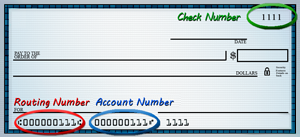
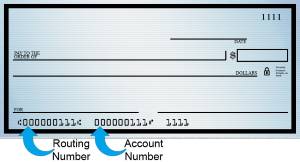
new cvv2 image

diff --git a/web/order/view/assets/charge.js b/web/order/view/assets/charge.js
@@ -149,12 +149,17 @@ document.addEventListener("DOMContentLoaded", function(event) {
 
     var amount_timeout = null;
     function updateChargeForm(e, form) {
+        var url;
         if(form.change_form_url && form.change_form_url.value) {
-            document.location.href = document.location.href.split('?')[0] + form.change_form_url.value;
+            url = form.change_form_url.value;
+            form.change_form_url.value = null;
+            document.location.href = document.location.href.split('?')[0] + url;
             return false;
         }
         if(form.change_merchant_url && form.change_merchant_url.value) {
-            document.location.href = document.location.href.split('?')[0] + form.change_merchant_url.value;
+            url = form.change_merchant_url.value;
+            form.change_merchant_url.value = null;
+            document.location.href = document.location.href.split('?')[0] + url;
             return false;
         }
 

diff --git a/web/view/theme/spg/assets/spg-theme.css b/web/view/theme/spg/assets/spg-theme.css
@@ -768,17 +768,28 @@ body.layout-vertical.spg-theme nav.page-menu {
     height: 44px;
 }
 
+.spg-theme .credit-image.small {
+    background: url('img/payment/credit-image-small.png') no-repeat;
+    width: 192px;
+    height: 32px;
+}
+
 .spg-theme .check-image {
     background: url('img/payment/check-image.png') no-repeat;
     width: 300px;
-    height: 137px;
+    height: 162px;
 }
 
 .spg-theme .cvv2-image {
     background: url('img/payment/cvv2-image.png') no-repeat;
-    width: 108px;
-    height: 76px;
+    width: 225px;
+    height: 170px;
     display: inline-block;
+}
+
+.spg-theme .cvv2-image.small {
+    transform: scale(0.8);
+    margin: 12px -26px;
 }
 
 

diff --git a/web/view/theme/spg/assets/spg-theme.js b/web/view/theme/spg/assets/spg-theme.js
@@ -54,9 +54,10 @@ document.addEventListener("DOMContentLoaded", function(e) {
         case 'localhost':
             break;
 
-        case 'access.simonpayments.com:81':
         case 'access.simonpayments.com':
-            // Force SSL
+        case 'dev.simonpayments.com':
+        case 'demo.simonpayments.com':
+            // If no SSL, force SSL
             if (location.protocol != 'https:')
                 location.href = 'https:' + window.location.href.substring(window.location.protocol.length);
             break;

diff --git a/web/order/forms/defaultorderform.class.php b/web/order/forms/defaultorderform.class.php
@@ -211,19 +211,23 @@ HEAD;
                                 </td>
                             </tr>
                             <tr>
-                                <td colspan="2">
+                                <td colspan="2" style="white-space: normal;">
+
+
+                                    <div class="credit-image small" style="margin: 7px 0 0 5px;"></div>
+                                    <div style="font-size: x-small; color: grey; padding: 1em; max-width: 300px;">
+                                        **The CVV Number ("Card Verification Value") on your credit card
+                                        or debit card is a 3-4 digit number on credit and debit cards.
+                                    </div>
+
 
                                 </td>
                             </tr>
 
                         </table>
-                        <div style="font-size: x-small; color: grey; padding: 0em 1em; vertical-align: top;" class="inline-block-on-layout-narrow">
-                            <div class="credit-image"></div>
-                            <div class="cvv2-image" style="display: inline-block; float: left;"></div>
-                            <div style="padding: 2em; max-width: 224px;">
-                                **The CVV Number ("Card Verification Value") on your credit card
-                                or debit card is a 3-4 digit number on credit and debit cards.
-                            </div>
+
+                        <div style="margin: 0px 5px; vertical-align: top; display: inline-block;">
+                            <div class="cvv2-image small" style="display: inline-block; float: left; "></div>
                         </div>
                     </fieldset>
 

diff --git a/web/order/model/orderrow.class.php b/web/order/model/orderrow.class.php
@@ -17,6 +17,7 @@ use Payment\Model\PaymentRow;
 use System\Config\DBConfig;
 use System\Config\SiteConfig;
 use User\Model\UserRow;
+use User\Session\SessionManager;
 
 class OrderRow
 {
@@ -634,7 +635,7 @@ SQL;
     public static function unitTest() {
         // Go up 2 directories
         $cwd = getcwd();
-        chdir('../..');
+        chdir(__DIR__ . '/../..');
 
         // Enable class autoloader for this page instance
         spl_autoload_extensions('.class.php');
@@ -672,13 +673,16 @@ SQL;
             'check_number' => '123',
         );
 
+        $TestPaymentInfo = PaymentRow::createPaymentFromPost($post + $post_cc);
 
-        $TestOrderRow = OrderRow::createNewOrder($MockMerchantIdentity, $post + $post_cc);
+        $TestOrderRow = OrderRow::createNewOrder($MockMerchantIdentity, $TestPaymentInfo, $TestForm, $post + $post_cc);
         self::insert($TestOrderRow);
         $TestOrderRow = OrderRow::fetchByUID($TestOrderRow->getUID());
         OrderRow::delete($TestOrderRow);
 
-        $TestOrderRow = OrderRow::createNewOrder($MockMerchantIdentity, $post + $post_check);
+        $TestPaymentInfo = PaymentRow::createPaymentFromPost($post + $post_check);
+
+        $TestOrderRow = OrderRow::createNewOrder($MockMerchantIdentity, $TestPaymentInfo, $TestForm, $post + $post_check);
         self::insert($TestOrderRow);
         $TestOrderRow = OrderRow::fetchByUID($TestOrderRow->getUID());
         OrderRow::delete($TestOrderRow);
@@ -693,6 +697,6 @@ SQL;
     }
 }
 
-if(isset($argv) && in_array(@$argv[1], array('test-order', 'test-all')))
-    OrderRow::unitTest();
+//if(isset($argv) && in_array(@$argv[1], array('test-order', 'test-all')))
+//    OrderRow::unitTest();
 

diff --git a/web/order/forms/simpleorderform.class.php b/web/order/forms/simpleorderform.class.php
@@ -237,15 +237,15 @@ HEAD;
                                     </select>
                                 </label>
 
-                            </div>
-
-                            <div style="font-size: x-small; color: grey; padding: 0em 1em; vertical-align: top; display: inline-block;">
-                                <div class="credit-image"></div>
-                                <div class="cvv2-image" style="display: inline-block; float: left;"></div>
-                                <div style="padding: 2em; max-width: 224px;">
+                                <div class="credit-image small" style="margin: 7px 0 0 5px;"></div>
+                                <div style="font-size: x-small; color: grey; padding: 1em; max-width: 300px;">
                                     **The CVV Number ("Card Verification Value") on your credit card
                                     or debit card is a 3-4 digit number on credit and debit cards.
                                 </div>
+                            </div>
+
+                            <div style="margin: 10px 5px; vertical-align: top; display: inline-block;">
+                                <div class="cvv2-image" style="display: inline-block; float: left;"></div>
                             </div>
                         </div>
 

diff --git a/test.php b/test.php
@@ -25,11 +25,21 @@ echo "\nTesting ... ", __FILE__, PHP_EOL;
 $SessionManager = new \User\Session\SessionManager();
 $SessionUser = $SessionManager->getSessionUser();
 
+// Includes & Class Unit Tests
+$Directory = new RecursiveDirectoryIterator(__DIR__);
+$Iterator = new RecursiveIteratorIterator($Directory);
+$Regex = new RegexIterator($Iterator, '/^.+\.class\.php$/i', RecursiveRegexIterator::GET_MATCH);
+foreach($Regex as $classFile) {
+    $path = $classFile[0];
+    echo "\nClass " . $path;
+    include_once $classFile[0];
+}
+
+
 // Test Finix Integration
 chdir('integration/finix/test');
 require ('test.php');
 chdir($cwd0);
-
 
 // Test Element Integration
 chdir('integration/element/test');

diff --git a/web/index.php b/web/index.php
@@ -5,14 +5,6 @@
  * Date: 8/27/2016
  * Time: 10:47 PM
  */
-switch(strtolower($_SERVER["HTTP_HOST"])) {
-    case "1admin.paylogicnetwork.com":
-        Header( "HTTP/1.1 301 Moved Permanently" );
-        header("location: https://admin.paylogicnetwork.com:8443/");
-        die;
-
-}
-
 
 error_reporting(E_ALL);
 ini_set('display_errors', 1);
@@ -21,10 +13,6 @@ ini_set('display_errors', 1);
 spl_autoload_extensions('.class.php');
 spl_autoload_register(function ($class) {
     $path = __DIR__ . '/' . strtolower(str_replace('\\', '/', $class)) . '.class.php';
-//    var_dump(getcwd());
-//    var_dump(__FILE__);
-//    var_dump(file_exists($path));
-//    var_dump($path);
     require $path;
 });
 

diff --git a/web/view/theme/basic/defaultviewtheme.class.php b/web/view/theme/basic/defaultviewtheme.class.php
@@ -92,10 +92,23 @@ class DefaultViewTheme extends AbstractViewTheme
     }
 
     public function printHTMLMenu($category, $action_url=null) {
+        throw new \Exception("Not implemented");
         // TODO: Implement printHTMLMenu() method.
     }
 
     public function printBreadCrumbs($getFullName, $string) {
+        throw new \Exception("Not implemented");
         // TODO: Implement printBreadCrumbs() method.
+    }
+
+    /**
+     * Add a path (bread crumb) url
+     * @param $name
+     * @param $url
+     * @return mixed
+     */
+    public function addPathURL($url, $name) {
+        throw new \Exception("Not implemented");
+        // TODO: Implement addPathURL() method.
     }
 }

diff --git a/web/integration/element/elementintegration.class.php b/web/integration/element/elementintegration.class.php
@@ -284,7 +284,7 @@ class ElementIntegration extends AbstractIntegration
             IntegrationRequestRow::ENUM_TYPE_TRANSACTION
         );
 
-        $APIData = IntegrationRow::fetchByID($Request->getIntegrationID());
+//        $APIData = IntegrationRow::fetchByID($Request->getIntegrationID());
 
         $url = $this->getRequestURL($MerchantIdentity, $Request);
 //        $url = str_replace(':IDENTITY_ID', $MerchantIdentity->getRemoteID(), $url);

diff --git a/web/payment/model/payeerow.class.php b/web/payment/model/payeerow.class.php
@@ -216,7 +216,7 @@ LEFT JOIN state st on st.short_code = p.payee_state
      * @throws \Exception
      */
     public static function unitTest() {
-        require_once '../../system/config/dbconfig.class.php';
+        require_once __DIR__ . '/../../system/config/dbconfig.class.php';
 
         $post = array(
             'payee_first_name' => 'test',

diff --git a/web/support/view/supportticketview.class.php b/web/support/view/supportticketview.class.php
@@ -69,4 +69,9 @@ class SupportTicketView extends AbstractView
             die();
         }
     }
+
+    public function processFormRequest(Array $post) {
+        throw new \Exception("Not implemented");
+        // TODO: Implement processFormRequest() method.
+    }
 }
